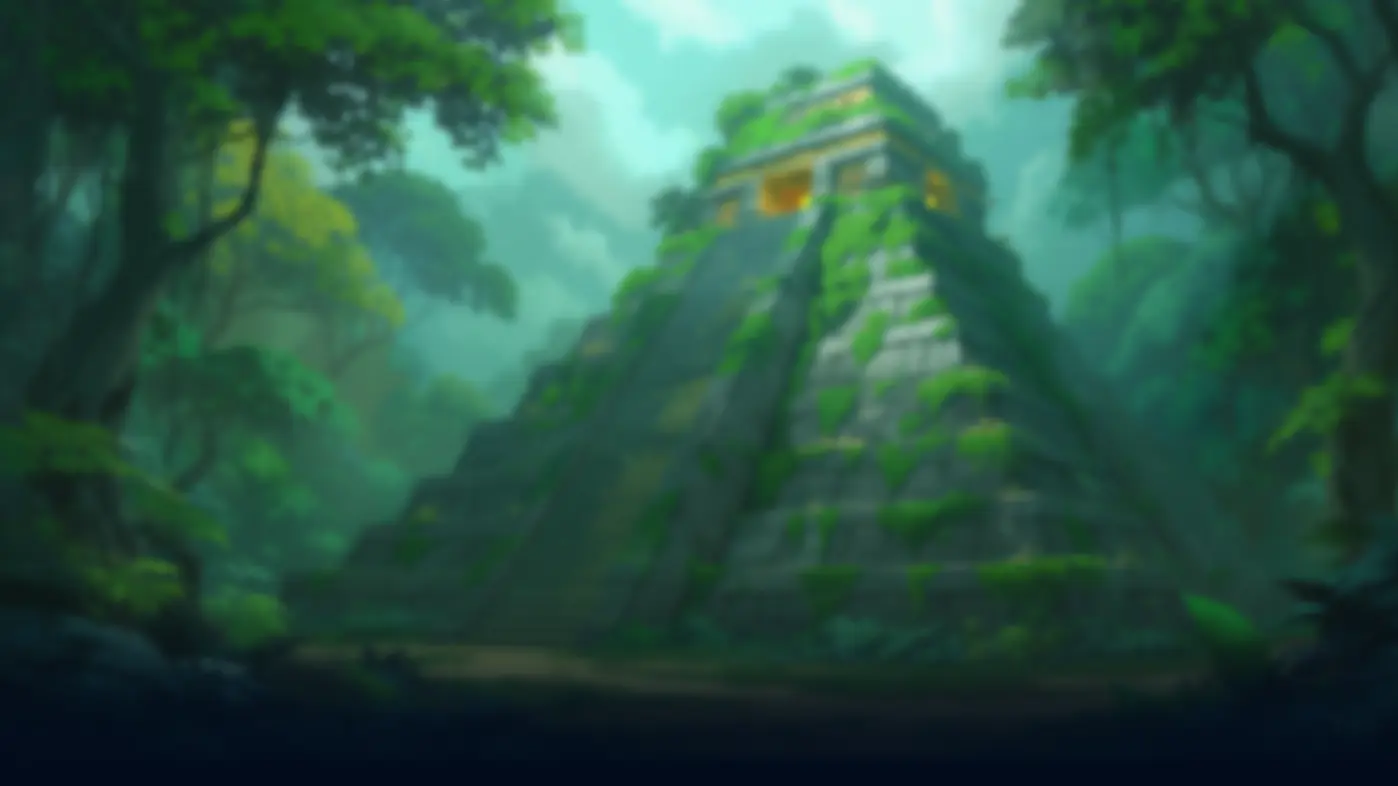
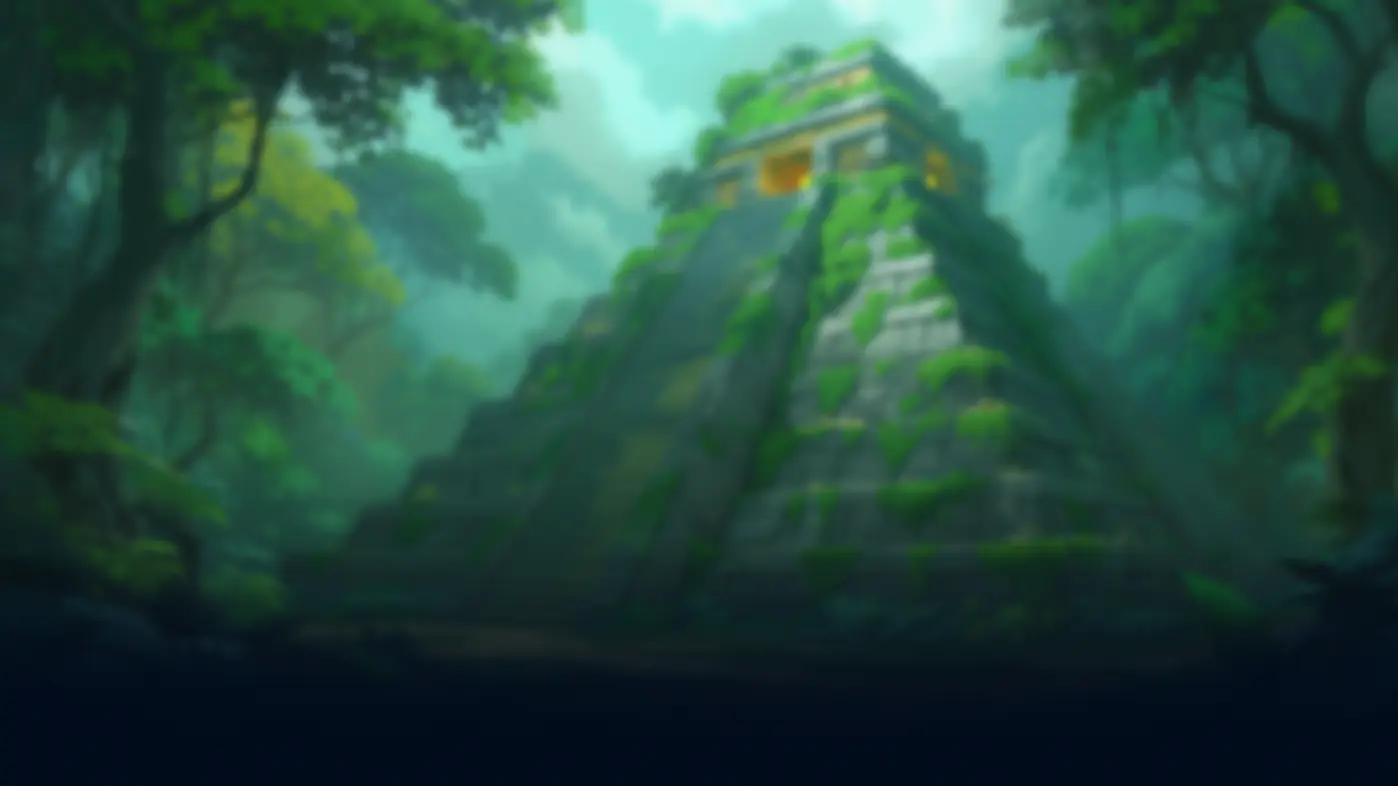
fix: background, cache image and layout UI - Epic GL-5774

diff --git a/packages/plinko/src/components/plinko-game/plinko-game/slots/index.tsx b/packages/plinko/src/components/plinko-game/plinko-game/slots/index.tsx
@@ -1,6 +1,5 @@
 import { useMemo, useState, useEffect, useRef } from "react";
 import { useShallow } from "zustand/react/shallow";
-import Image from "next/image";
 import usePlinkoGameStore from "@plinko/shared/stores/plinko-game-store";
 import useGameStore from "@shared/stores/game-store/game-store";
 import Tooltip from "./tooltip";
@@ -8,9 +7,9 @@ import { getLightningMultiplierColor, getMultiplierColor } from "@plinko/shared/
 import { cn } from "@shared";
 import { isDesktop } from "react-device-detect";
 import { usePlinkoLightningModeGameStore } from "@plinko/shared/stores";
-import { buildVersion } from "@shared/constants";
 import { formatPlinkoOdds } from "./slot-utils";
 import { NUMBER_OF_ROWS } from "@plinko/constants";
+import { CachedImage } from "@shared/components/game-components/cached-image";
 const basePath = process.env.NEXT_PUBLIC_BASE_PATH || "";
 
 const fontSizes = {
@@ -144,23 +143,24 @@ const Slots = () => {
                             key={`${index}-${item}`}
                             className={cn(
                                 isHit ? "animate-slide-down" : "",
-                                "flex items-center justify-center text-white font-bold h-[30px]",
-                                "rounded-[4px] transition-transform duration-200 [text-shadow:_-1px_-1px_0_#262626,_1px_-1px_0_#262626,_-1px_1px_0_#262626,_1px_1px_0_#262626]",
-                                isLightningMode && "h-[28px]"
+                                "flex items-center justify-center text-white font-bold h-[28px]",
+                                "rounded-[4px] transition-transform duration-200 [text-shadow:_-1px_-1px_0_#262626,_1px_-1px_0_#262626,_-1px_1px_0_#262626,_1px_1px_0_#262626]"
                             )}
                             style={{
                                 width: `${slotDimensions.width}px`,
                                 margin: `0 ${slotDimensions.marginX}px`,
                                 backgroundColor: getBackgroundColor(item, index),
-                                fontSize: isDesktop ? `${fontSizesDesktop[effectiveNumberOfRows]}px` : `${fontSizes[effectiveNumberOfRows]}px`,
+                                fontSize: isDesktop
+                                    ? `${fontSizesDesktop[effectiveNumberOfRows]}px`
+                                    : `${fontSizes[effectiveNumberOfRows]}px`,
                             }}
                         >
                             {isLightningMode && item === 0 ? (
-                                <Image
-                                    src={`${basePath}/static/images/icons/hell.webp?v=${buildVersion}`}
+                                <CachedImage
+                                    src={`${basePath}/static/images/plinko/hell.webp`}
                                     alt="hell"
-                                    width={20}
-                                    height={20}
+                                    width={18}
+                                    height={18}
                                     className="w-[18px] h-[18px]"
                                 />
                             ) : (

diff --git a/packages/plinko/src/components/plinko-game/background/index.tsx b/packages/plinko/src/components/plinko-game/background/index.tsx
@@ -1,13 +1,14 @@
 import { memo } from "react";
-import Image from "next/image";
-import { buildVersion } from "@shared/constants";
+import dynamic from "next/dynamic";
 import { getCurrentGameAssets } from "../../../game-config";
 import { usePlinkoLightningModeGameStore } from "@plinko/shared/stores";
 import { useShallow } from "zustand/shallow";
-import ParticlesContainer from "./particles";
 import { useLowPerformanceDevice } from "@shared";
+import { BgCachedImage } from "@shared/components/game-components/cached-image/bg-cached-image";
+
 const basePath = process.env.NEXT_PUBLIC_BASE_PATH || "";
 const gameAssets = getCurrentGameAssets();
+const ParticlesContainer = dynamic(() => import("./particles"), { ssr: false });
 
 const Background: React.FC = () => {
     const { isLightningMode } = usePlinkoLightningModeGameStore(
@@ -18,16 +19,17 @@ const Background: React.FC = () => {
     const isLowPerformance = useLowPerformanceDevice();
 
     const backgroundImage = isLightningMode
-        ? `${basePath}/static/images/background/lightning-bg.webp?v=${buildVersion}`
-        : `${basePath}${gameAssets.backgroundImage}?v=${buildVersion}`;
+        ? `${basePath}/static/images/background/lightning-bg.webp`
+        : `${basePath}${gameAssets.backgroundImage}`;
 
     return (
         <>
-            <Image
-                src={backgroundImage}
-                alt="Background"
-                fill
-                className={`absolute top-0 z-[-100] bg-size-[100%_100%] bg-position-center bg-no-repeat w-[calc(100%+24px)] h-full md:left-0 md:w-full md:rounded-tr-xl`}
+            <BgCachedImage
+                pathImage={backgroundImage}
+                className={`absolute top-0 z-[-100] w-[calc(100%+24px)] h-[610px] md:h-full md:left-0 md:w-full md:rounded-tr-xl`}
+                backgroundSize="100% 100%"
+                backgroundRepeat="no-repeat"
+                backgroundPosition="center"
             />
             <div className="absolute z-[-10] top-0 w-full h-[100px] opacity-70 bg-gradient-to-b from-[#070D16] to-[#17193F00]"></div>
 
@@ -35,11 +37,12 @@ const Background: React.FC = () => {
                 {/* CSS-based particle effects */}
                 {!isLowPerformance && <ParticlesContainer />}
 
-                <div
-                    id="background-polygon"
-                    className="relative h-[862px] w-full bg-center bg-no-repeat"
-                    style={{ backgroundImage: `url('${basePath}/static/images/background/polygon.webp?v=${buildVersion}')` }}
-                ></div>
+                <BgCachedImage
+                    pathImage={`${basePath}/static/images/background/polygon.webp`}
+                    className="relative h-[610px] md:h-full w-full"
+                    backgroundRepeat="no-repeat"
+                    backgroundPosition="top center"
+                />
             </div>
             <div className="hidden md:block absolute bottom-0 w-full h-[100px] z-[-10] bg-gradient-to-b from-[#17193F00] to-[#070D16]"></div>
         </>

diff --git a/packages/plinko/src/components/plinko-game-base/index.tsx b/packages/plinko/src/components/plinko-game-base/index.tsx
@@ -25,14 +25,13 @@ import BetPanel from "@plinko/components/plinko-game/bet-panel/bet-panel";
 import { createPortal } from "react-dom";
 import PlinkoGame from "../plinko-game/plinko-game";
 import usePlinkoGameStore from "@plinko/shared/stores/plinko-game-store";
-import UserInfo from "@shared/components/page-components/header/user-info";
 import { isMobileOnly } from "react-device-detect";
 import { ResourceTypes } from "@shared/resources";
 import { PLINKO_GAME_IDS } from "@plinko/constants";
 import { getAppSettings } from "@shared/app-settings";
+import Background from "@plinko/components/plinko-game/background";
 
 // Dynamic imports side components
-const Background = dynamic(() => import("@plinko/components/plinko-game/background"), { ssr: false });
 const MenuIconWrapper = dynamic(() => import("@shared/components/game-components/menu/menu-icon-wrapper"), { ssr: false });
 const SoundIcon = dynamic(() => import("@shared/components/game-components/menu/icons/sound-icon"), { ssr: false });
 const GuideIcon = dynamic(() => import("@shared/components/game-components/menu/icons/guide-icon"), { ssr: false });
@@ -53,6 +52,8 @@ const HotKeyModal = dynamic(() => import("@shared/components/game-components/hot
 const LobbyMenu = dynamic(() => import("@shared/components/game-components/lobby-menu"), { ssr: false });
 const Header = dynamic(() => import("@shared/components/page-components/header"), { ssr: false });
 const LightningKey = dynamic(() => import("@plinko/components/plinko-game/lightning-key"), { ssr: false });
+const UserInfo = dynamic(() => import("@shared/components/page-components/header/user-info"), { ssr: false });
+
 class PlinkoGameBase extends GameBase<GameBaseProps, GameBaseState> {
     private readonly plinkoRoundStateHandler: PlinkoRoundStateHandler;
     private readonly syncBalanceHandler: PlinkoSyncBalanceHandler;
@@ -230,7 +231,7 @@ class PlinkoGameBase extends GameBase<GameBaseProps, GameBaseState> {
         return (
             <div className="flex items-center gap-2">
                 <span className="text-sm md:text-base font-semibold">{this.props.translate(`${ResourceTypes.COMMON}.balance`)}:</span>
-                <UserInfo customizeClass="text-yellow-400" />
+                <UserInfo customizeClass="text-winning-highlight" />
             </div>
         );
     }

diff --git a/packages/plinko/src/components/plinko-game/winning-amount-effect/__tests__/index.test.tsx b/packages/plinko/src/components/plinko-game/winning-amount-effect/__tests__/index.test.tsx
@@ -49,7 +49,7 @@ describe("WinningAmountEffect", () => {
             const { container } = render(<WinningAmountEffect />);
 
             // Assert
-            expect(container.firstChild).toHaveClass("h-8");
+            expect(container.firstChild).toHaveClass("h-6");
             expect(container.textContent).toBe("");
         });
 
@@ -61,7 +61,7 @@ describe("WinningAmountEffect", () => {
             const { container } = render(<WinningAmountEffect />);
 
             // Assert
-            expect(container.firstChild).toHaveClass("h-8");
+            expect(container.firstChild).toHaveClass("h-6");
             expect(container.textContent).toBe("");
         });
 
@@ -73,7 +73,7 @@ describe("WinningAmountEffect", () => {
             const { container } = render(<WinningAmountEffect />);
 
             // Assert
-            expect(container.firstChild).toHaveClass("h-8");
+            expect(container.firstChild).toHaveClass("h-6");
             expect(container.textContent).toBe("");
         });
 
@@ -111,7 +111,7 @@ describe("WinningAmountEffect", () => {
             const { container } = render(<WinningAmountEffect />);
 
             // Assert
-            expect(container.firstChild).toHaveClass("h-8");
+            expect(container.firstChild).toHaveClass("h-6");
             expect(container.textContent).toBe("");
         });
 
@@ -123,7 +123,7 @@ describe("WinningAmountEffect", () => {
             const { container } = render(<WinningAmountEffect />);
 
             // Assert
-            expect(container.firstChild).toHaveClass("h-8");
+            expect(container.firstChild).toHaveClass("h-6");
             expect(container.textContent).toBe("");
         });
     });

diff --git a/packages/plinko/src/components/plinko-game/bet-panel/form-components/bet-amount-control.tsx b/packages/plinko/src/components/plinko-game/bet-panel/form-components/bet-amount-control.tsx
@@ -56,12 +56,15 @@ const BetAmountControl = ({
             <div className="flex items-center gap-2">
                 <Label title={t("bet_amount")} />
                 <div>
-                    <i className="icon-circle-info text-lg cursor-pointer mb-2" onClick={() => setIsShowPopOver(true)} />
+                    <i
+                        className="absolute -translate-y-[70%] icon-circle-info text-lg cursor-pointer"
+                        onClick={() => setIsShowPopOver(true)}
+                    />
 
                     {isShowPopOver && (
                         <div
                             ref={popOverRef}
-                            className={`absolute -translate-y-[200%] -translate-x-[calc(50%-35px)] bg-[#2993f5] text-white text-sm px-4 py-2 rounded-lg pointer-events-none flex flex-col gap-1 z-10`}
+                            className={`absolute -translate-y-[170%] -translate-x-[calc(50%-40px)] bg-[#2993f5] text-white text-sm px-4 py-2 rounded-lg pointer-events-none flex flex-col gap-1 z-10`}
                         >
                             <div
                                 className={`absolute -bottom-[6px] left-[calc(35%+10px)] -translate-x-1/2 w-0 h-0 border-l-[6px] border-l-transparent border-r-[6px] border-r-transparent border-t-[6px] border-t-[#2993f5]`}

diff --git a/packages/plinko/src/components/lobby-background/index.tsx b/packages/plinko/src/components/lobby-background/index.tsx
@@ -1,0 +1,29 @@
+import { getAppSettings } from "@shared";
+import { BgCachedImage } from "@shared/components/game-components/cached-image/bg-cached-image";
+import { useMemo } from "react";
+import { createPortal } from "react-dom";
+
+const basePath = process.env.NEXT_PUBLIC_BASE_PATH || "";
+const appSettings = getAppSettings();
+
+const LobbyBackground = () => {
+    const dashboardElement = useMemo(() => {
+        return document.getElementById("dashboard");
+    }, []);
+
+    return (
+        appSettings.appType === 1 &&
+        dashboardElement &&
+        createPortal(
+            <div className="absolute top-0 left-0 w-full h-full bg-[#020C1C] z-[-10] overflow-hidden min-h-[800px]">
+                <BgCachedImage
+                    pathImage={`${basePath}/static/images/lobby/game-bg.webp`}
+                    className="absolute w-full h-[786px] md:bg-[length:100%_100%] bg-auto bg-no-repeat bg-center"
+                />
+            </div>,
+            dashboardElement
+        )
+    );
+};
+
+export default LobbyBackground;

diff --git a/packages/shared/src/components/page-components/dashboard/index.tsx b/packages/shared/src/components/page-components/dashboard/index.tsx
@@ -228,17 +228,10 @@ class Dashboard extends React.Component<DashboardProps, DashboardState> {
                 <BalanceSyncProvider>
                     <div
                         id={"dashboard"}
-                        className={`overflow-x-hidden relative ${
+                        className={`overflow-hidden relative min-h-screen ${
                             isDesktop ? (appType === 7 ? styles["mobile-dashboard"] : styles["desktop-dashboard"]) : ""
                         }`}
                     >
-                        {appType === 1 && (
-                            <>
-                                <div className="absolute w-full h-full bg-[#020C1C] z-[-2]"></div>
-                                <div className={`${styles["top-half"]} absolute  top-0 left-0 w-full h-[100vh]  z-[-1]`}></div>
-                            </>
-                        )}
-
                         <SoundSettings />
 
                         {renderOfferGameContainer()}

diff --git a/packages/plinko/src/components/plinko-game/bet-panel/form-components/icon-info-percentage-control.tsx b/packages/plinko/src/components/plinko-game/bet-panel/form-components/icon-info-percentage-control.tsx
@@ -11,13 +11,13 @@ const IconInfoPercentageControl = ({ type }: { type: "on_win" | "on_loss" }) => 
         <>
             <div className="relative">
                 <i
-                    className="icon-circle-info text-lg cursor-pointer"
+                    className="absolute -top-1 md:-top-0.5 left-0 icon-circle-info text-lg cursor-pointer"
                     data-testid="icon-guide-testid"
                     onClick={() => setIsShowGuide(true)}
                 />
                 {isShowGuide && (
                     <div
-                        className={`absolute -top-2 left-1/2 -translate-x-1/2 w-0 h-0 border-l-[6px] border-l-transparent border-r-[6px] border-r-transparent border-t-[6px] border-t-[#2993f5]`}
+                        className={`absolute -top-2 left-1 w-0 h-0 border-l-[6px] border-l-transparent border-r-[6px] border-r-transparent border-t-[6px] border-t-[#2993f5]`}
                     ></div>
                 )}
             </div>

diff --git a/packages/plinko/src/games/games.tsx b/packages/plinko/src/games/games.tsx
@@ -1,6 +1,7 @@
-import React from "react";
+import React, { useEffect } from "react";
 import { Games, GameConfig } from "@shared/components/game-components/games";
 import PlinkoGame from "../page";
+import LobbyBackground from "@plinko/components/lobby-background";
 
 // Function to get game ID (prioritizes env var over URL extraction)
 const getGameId = (): number => {
@@ -28,11 +29,18 @@ export const updateGameConfig = (gameId: number) => {
         component: PlinkoGame,
         name: gameId === 145 ? "Plinko" : "Plinko X",
     };
-    
 };
 
 export const PlinkoGames: React.FC<any> = (props) => {
-    return <Games {...props} gameConfig={currentGameConfig} />;
+    useEffect(() => {
+        updateGameConfig(getGameId());
+    }, []);
+    return (
+        <>
+            <LobbyBackground />
+            <Games {...props} gameConfig={currentGameConfig} />
+        </>
+    );
 };
 
 export default PlinkoGames;

diff --git a/packages/plinko/src/components/plinko-game/round-multiplier-history/round-multiplier-item.tsx b/packages/plinko/src/components/plinko-game/round-multiplier-history/round-multiplier-item.tsx
@@ -1,6 +1,6 @@
-import { buildVersion, cn, numberWithCommas } from "@shared";
+import { cn, numberWithCommas } from "@shared";
 import React from "react";
-import Image from "next/image";
+import { CachedImage } from "@shared/components/game-components/cached-image";
 import { PlinkoRound } from "./round-multiplier-history";
 
 const basePath = process.env.NEXT_PUBLIC_BASE_PATH || "";
@@ -14,8 +14,8 @@ interface RoundMultiplierItemProps {
 const renderMultiplierContent = (multiplier: number) => {
     if (multiplier === 0) {
         return (
-            <Image
-                src={`${basePath}/static/images/icons/hell-multiplier.svg?v=${buildVersion}`}
+            <CachedImage
+                src={`${basePath}/static/images/plinko/hell-multiplier.svg`}
                 alt="Hell multiplier"
                 width={20}
                 height={20}

diff --git a/packages/plinko/src/components/plinko-game/winning-amount-effect/index.tsx b/packages/plinko/src/components/plinko-game/winning-amount-effect/index.tsx
@@ -23,13 +23,13 @@ export const WinningAmountEffect = () => {
     }, [finish]);
 
     if (!winAmount) {
-        return <div className="h-8"></div>;
+        return <div className="h-6"></div>;
     }
 
     return (
         <div
             key={animationKey}
-            className={`${styles["win-animation"]} h-8 pt-2 text-center text-[#FFFA67] text-xl font-bold uppercase md:text-2xl`}
+            className={`${styles["win-animation"]} h-6 pt-1 text-center text-[#FFFA67] text-lg font-bold uppercase md:text-2xl md:pt-2`}
         >
             +{numberWithCommas(winAmount, 2)}
         </div>

diff --git a/packages/plinko/src/components/plinko-game-base/handlers/plinko-bet-history-handler.ts b/packages/plinko/src/components/plinko-game-base/handlers/plinko-bet-history-handler.ts
@@ -17,7 +17,7 @@ export class PlinkoBetHistoryHandler extends BetHistoryHandler {
     }
 
     handleFinishedBall(finishedBall: any) {
-        if (finishedBall) {
+        if (finishedBall && finishedBall.amount) {
             const {
                 roundId,
                 result,
